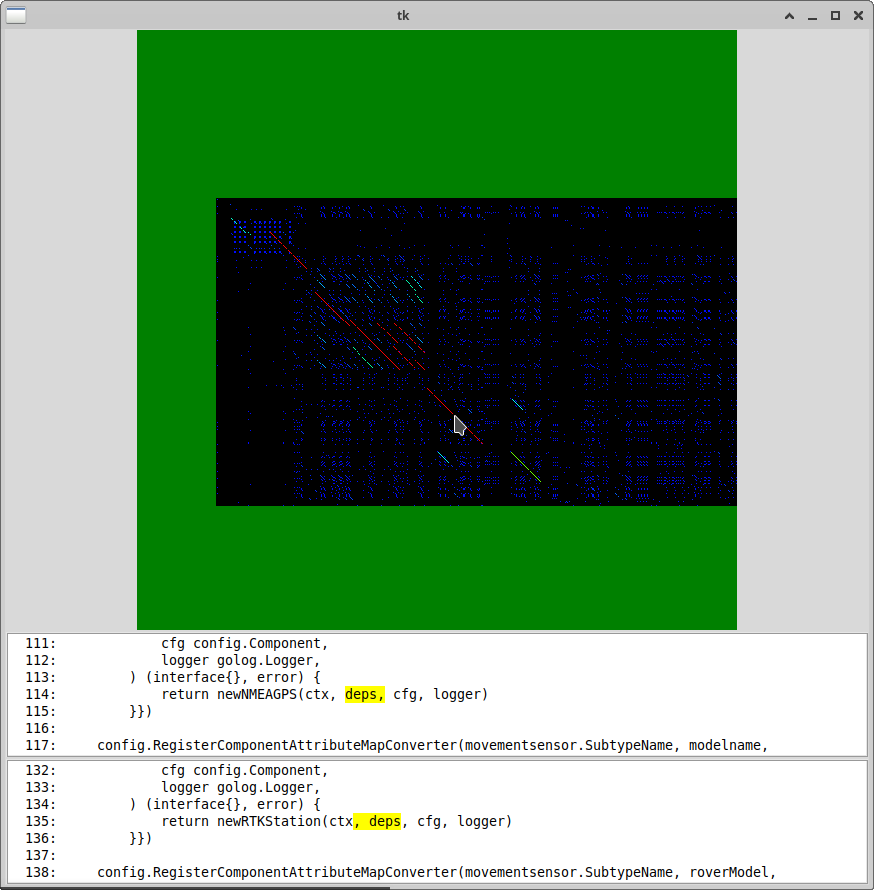
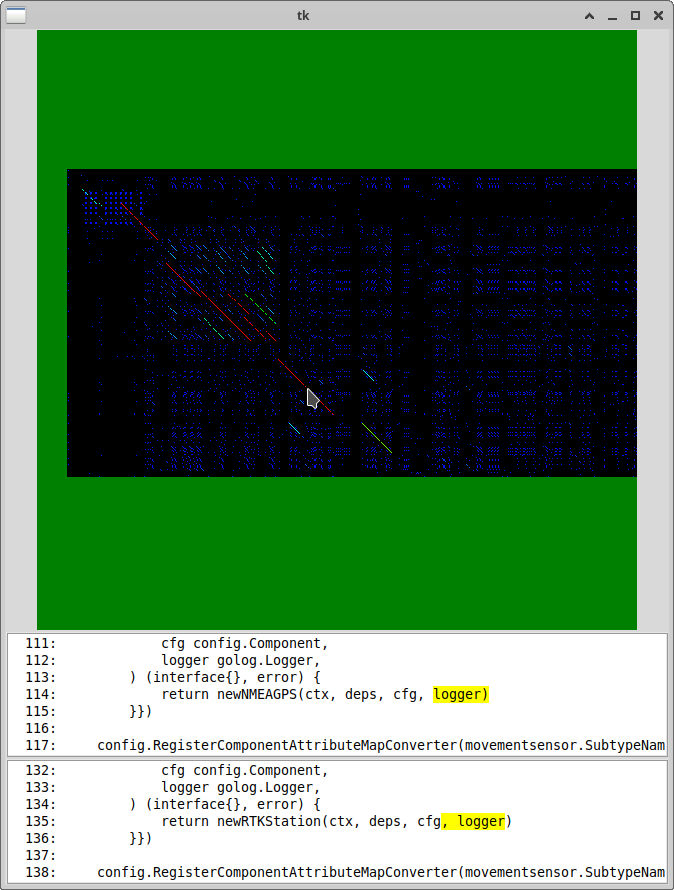
update readme some more (#21)
and redo the screenshots to be narrower, so hopefully Github won't shrink them and make the pixels fuzzy

* update readme some more

* redo screenshots to be narrower, so Github doesn't shrink them

diff --git a/README.md b/README.md
@@ -105,9 +105,8 @@ as diagonal lines in the image.
 
 ## Examples
 
-The mouse cursor has been artificially colored purple in order to better
-distinguish it from the background. The context at the bottom highlights the
-token(s) represented by the pixel the mouse is pointing to.
+The context at the bottom highlights the token(s) represented by the pixel the
+mouse is pointing to.
 
 Boilerplate code that repeats itself a lot clearly looks like it repeats:
 
@@ -120,7 +119,8 @@ short file and modifying it:
 ![example of a short file compared to a long file made from modifying the short one](./screenshots/gps.png)
 
 This is a single file compared to itself, where the second half of the file
-was created by modifying a copy of the first half:
+was created by modifying a copy of the first half. There are also some helper
+functions repeated in the first half and repeated again in the second half:
 
 ![a file whose second half is a modified copy of the first half](./screenshots/screenshot1.png)
 
@@ -134,6 +134,9 @@ multiple tokens within it. Duplicated code will still show up as a diagonal
 line even if the individual pixels only match partially. This file was large
 enough that I used the `--black_and_white` flag to skip the coloring, which
 saved gigabytes of memory and multiple minutes of startup time.
+
+The mouse cursor has been artificially colored purple in order to better
+distinguish it from the background.
 
 ![a zoomed-out view shows each pixel represents multiple tokens in the file](./screenshots/multitoken-matching.png)
 
